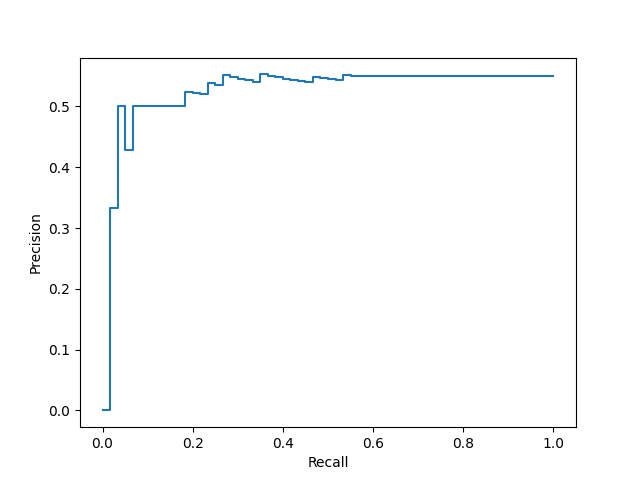
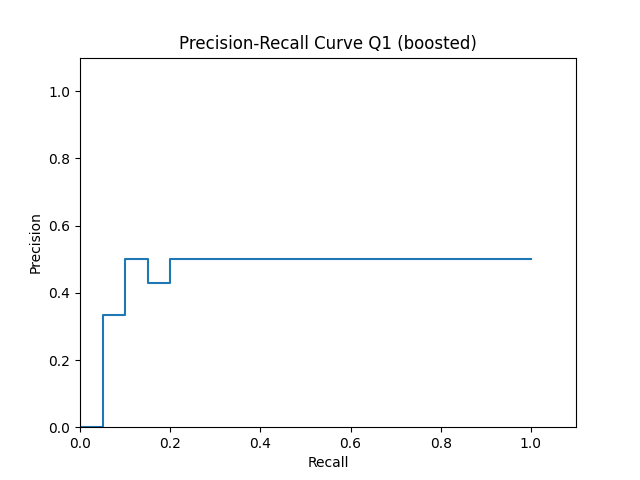
added configs

diff --git a/evaluation/evaluation.py b/evaluation/evaluation.py
@@ -5,7 +5,7 @@ import matplotlib.pyplot as plt
 from sklearn.metrics import PrecisionRecallDisplay
 import sys
 
-LIMIT = 60
+LIMIT = 20
 PRECISION_AT = 20
 QUERIES = 4
 MODES = ['simple', 'boosted']
@@ -90,13 +90,19 @@ def precision_recall(results: list, mode: str, query: int) -> None:
             else:
                 precision_recall_match[step] = precision_recall_match[recall_results[idx+1]]
 
-    disp = PrecisionRecallDisplay([
-        precision_recall_match.get(r) for r in recall_results
-    ], recall_results)
+    precision_results_k = [precision_recall_match.get(r) for r in recall_results]
+    disp = PrecisionRecallDisplay(precision_results_k, recall_results)
 
     disp.plot()
+    plt.xlim([0, 1.1])
+    plt.ylim([0, 1.1])
+    plt.title(f'Precision-Recall Curve Q{query} ({mode} mode)')
     plt.savefig(f'./q{query}/p-r-curve-{mode}.png')
     plt.close()
+
+def compute_rc(results: dict, query: int):
+    for k, v in results.items():
+        precision_recall(v, k, query)
 
 def print_stats(stats: dict) -> None:
     for key, value in stats.items():
@@ -112,34 +118,40 @@ def evaluate(query: int, mode: str) -> None:
         'AvP': average_precision(results),
     }
 
-    precision_recall(results, mode, query)
-    return stats
+    # precision_recall(results, mode, query)
+    return [stats, results]
 
 if __name__ == "__main__":
 
     if len(sys.argv) == 1:
 
         stats = []
-        for mode in MODES:
-            for query in range(1, QUERIES + 1):
-                stat = evaluate(query, mode)
-                stats.append(stat)
-        
+        results = {}
+        for query in range(1, QUERIES + 1):
+            for mode in MODES:
+                output = evaluate(query, mode)
+                stats.append(output[0])
+                results[mode] = output[1]
+            compute_rc(results, query)
+
         print("Stats per query and per mode")
-        print(json.dumps(stats, indent=2))
+        print(json.dumps(output[0], indent=2))
 
         print("Mean average precision per mode")
-        print(json.dumps(mean_average_precision(stats), indent=2))
+        print(json.dumps(mean_average_precision(output[0]), indent=2))
 
     elif len(sys.argv) == 2 and 1 <= int(sys.argv[1]) <= QUERIES:
 
         stats = []
+        results = {}
         for mode in MODES:
-            stat = evaluate(int(sys.argv[1]), mode)
-            stats.append(stat)
+            output = evaluate(int(sys.argv[1]), mode)
+            stats.append(output[0])
+            results[mode] = output[1]
+        compute_rc(results, int(sys.argv[1]))
 
         print("Stats per query and per mode")
-        print(json.dumps(stats, indent=2))
+        print(json.dumps(output[0], indent=2))
 
     else:
         print("Bad arguments. Usage: python3 evaluation.py [N]")
